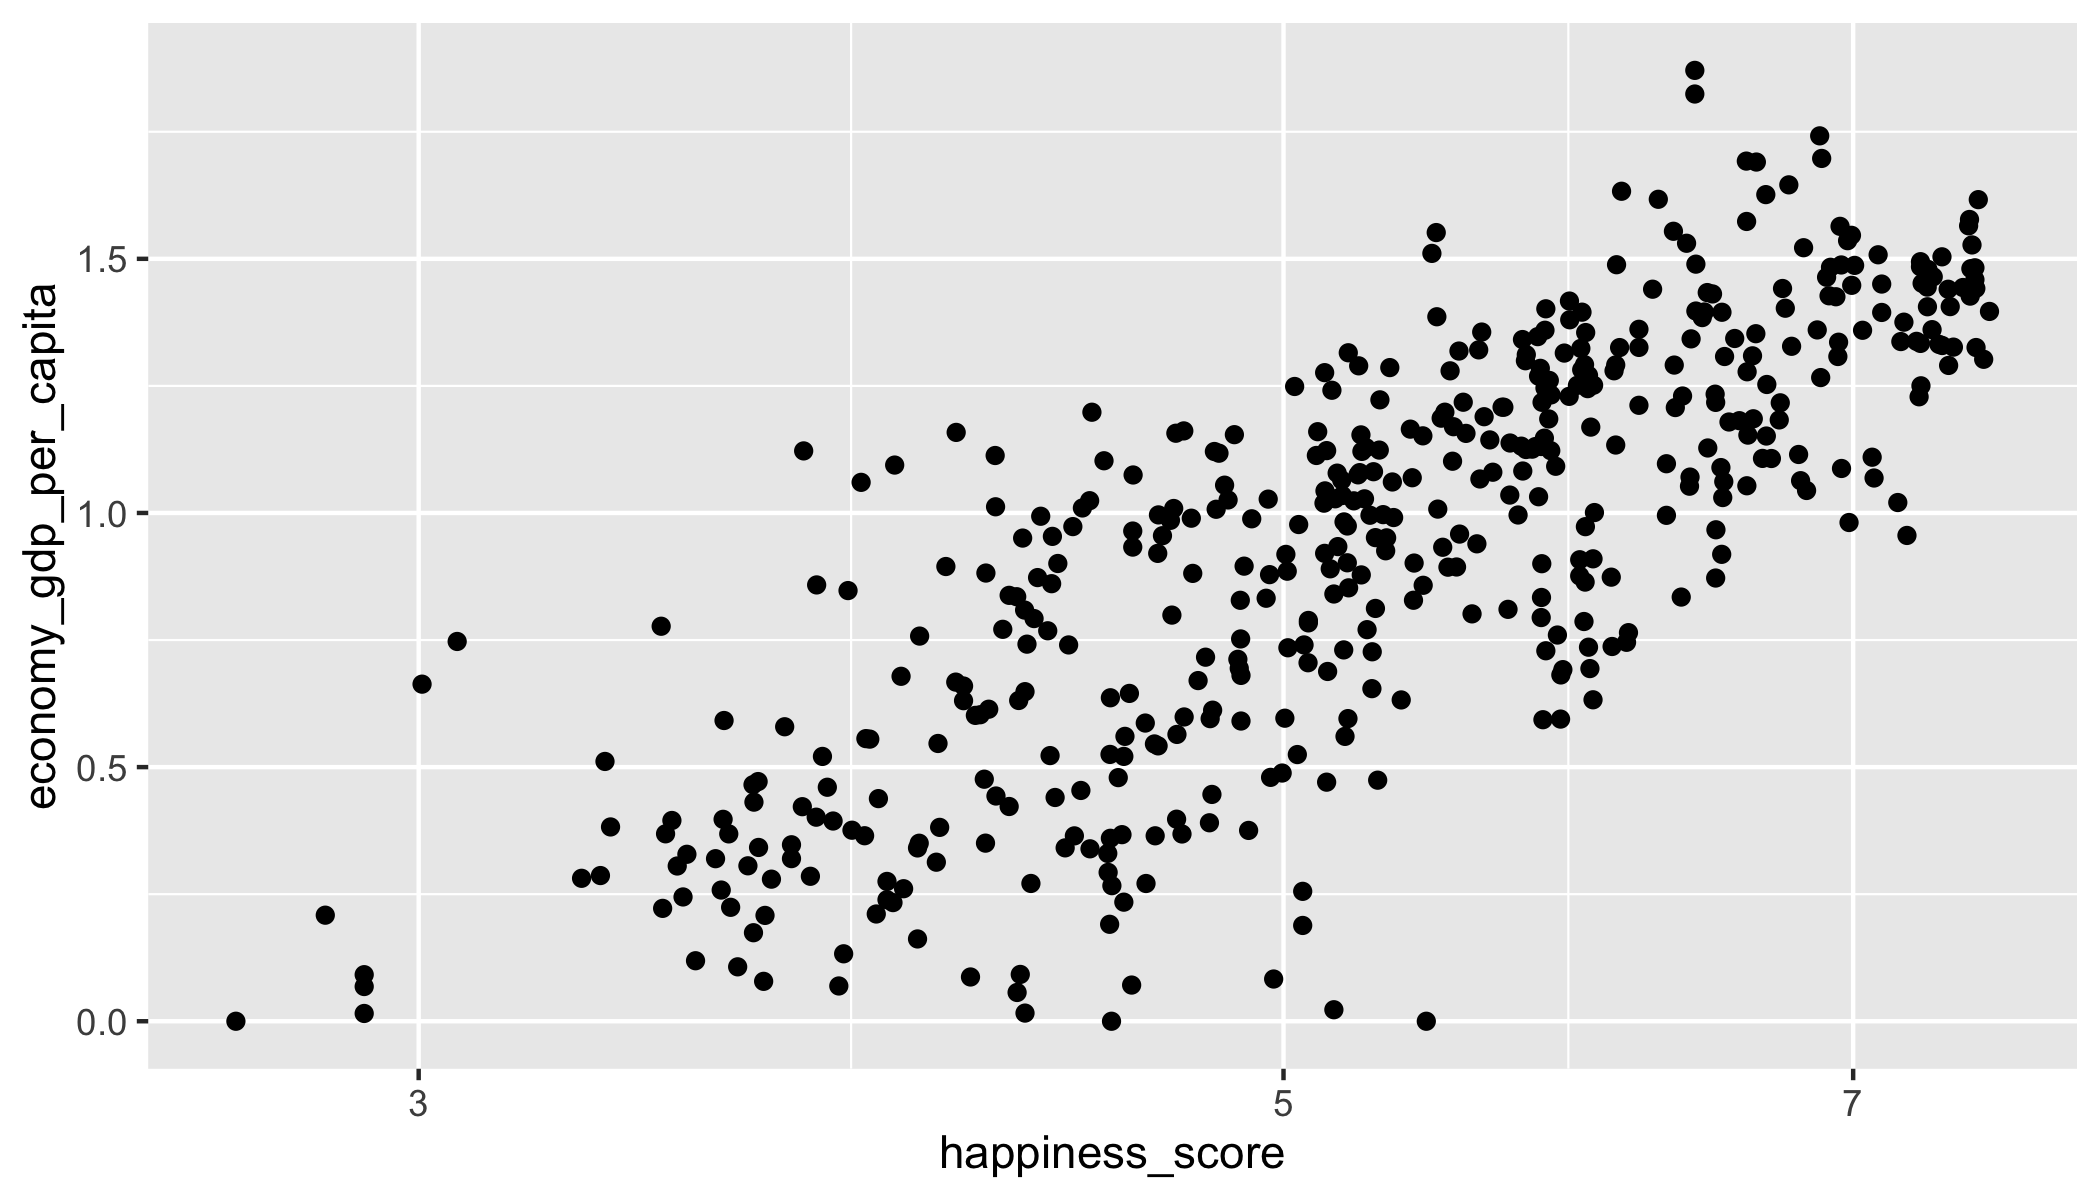
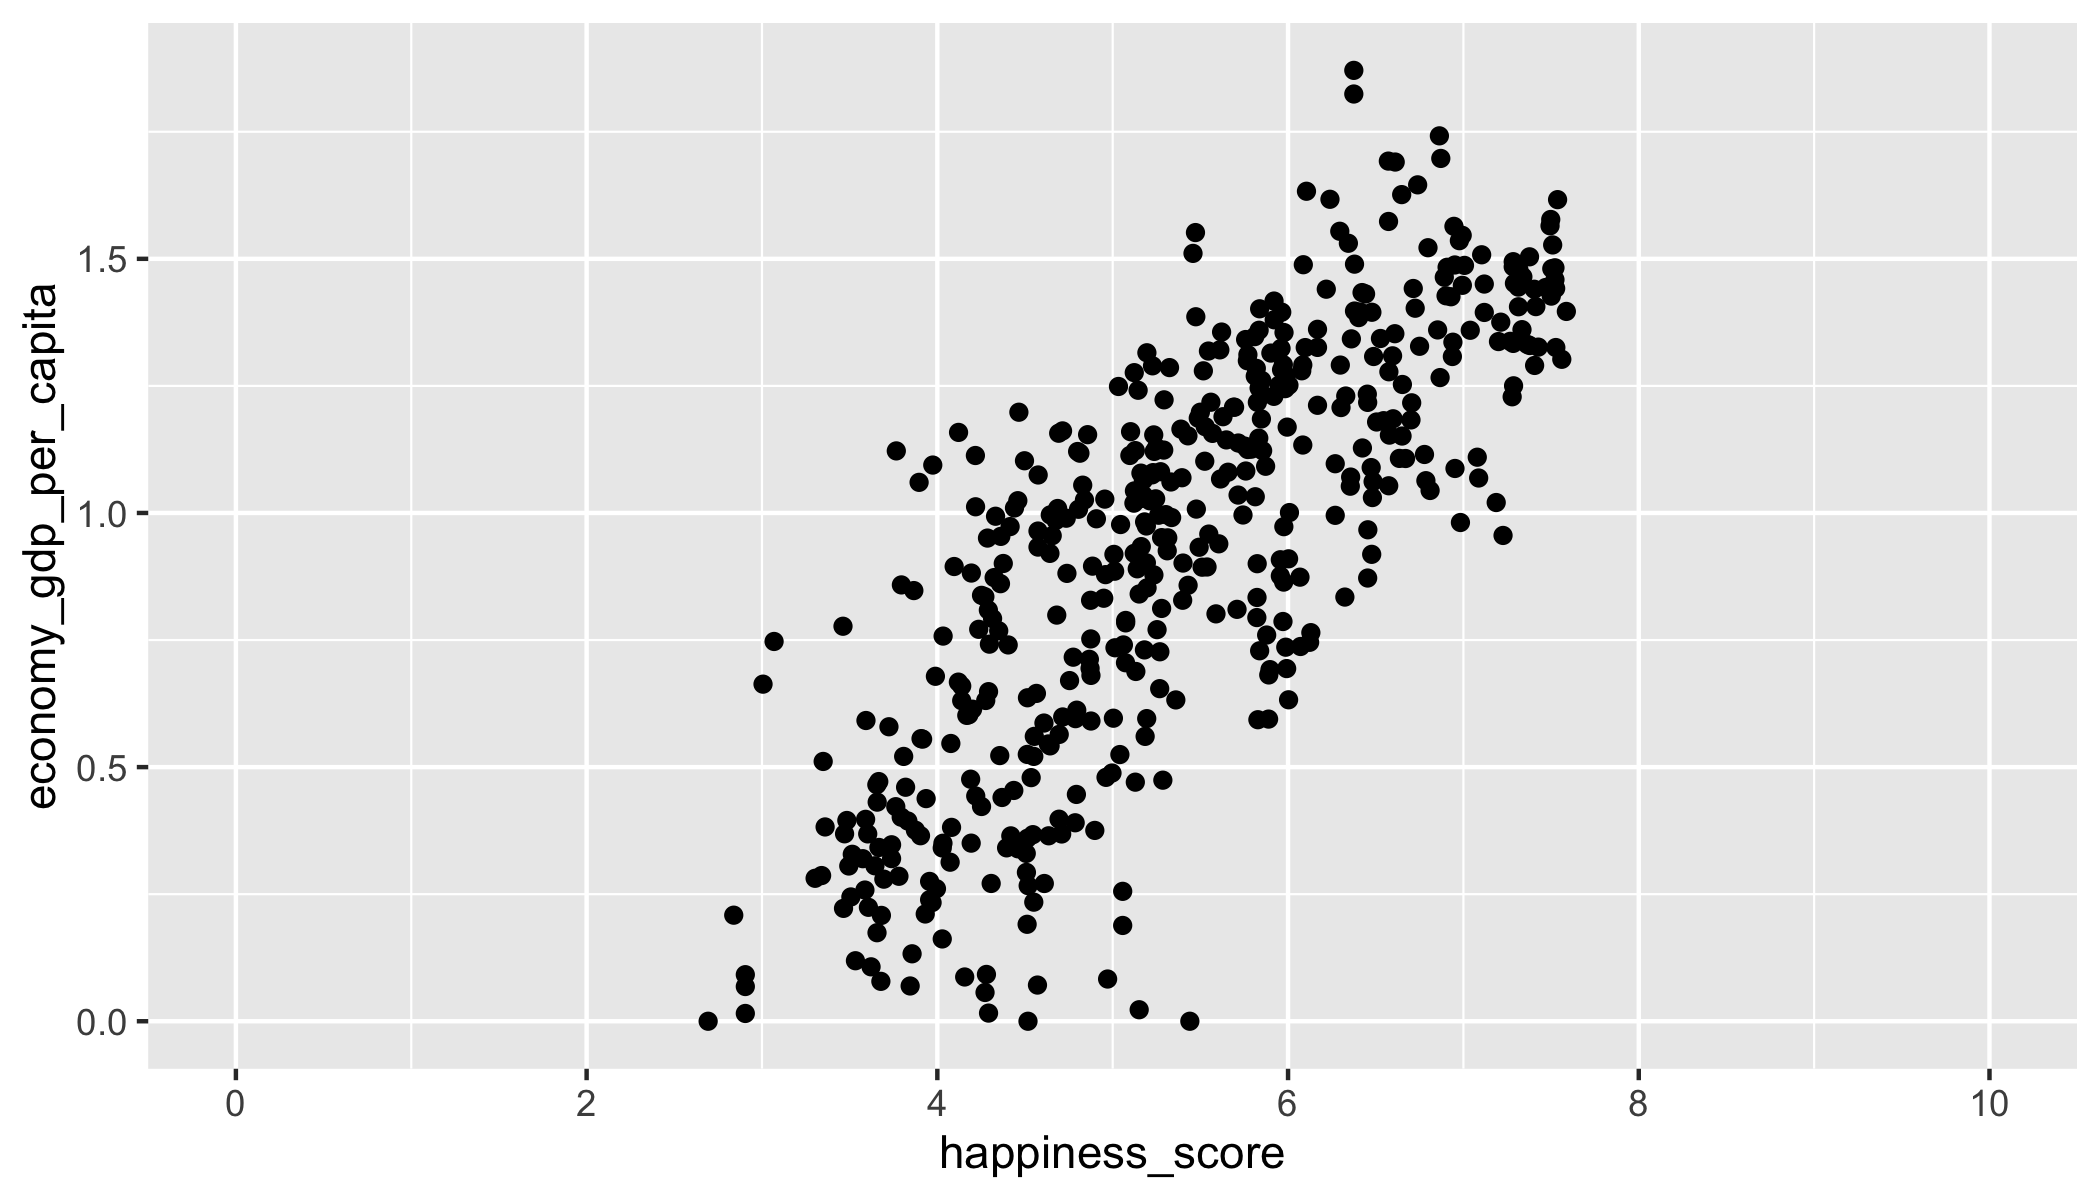
Implemented small changes/corrections to data vis slides

diff --git a/Presentations/04-data-visualization.html b/Presentations/04-data-visualization.html
@@ -185,7 +185,7 @@ First, we’re going to use base plot, i.e., using Base R default libraries. It 
 
 ]
 
-<div class="countdown" id="timer_7fa10abd" data-update-every="1" tabindex="0" style="bottom:0;left:0;font-size:2em;">
+<div class="countdown" id="timer_d192904d" data-update-every="1" tabindex="0" style="bottom:0;left:0;font-size:2em;">
 <div class="countdown-controls"><button class="countdown-bump-down">&minus;</button><button class="countdown-bump-up">&plus;</button></div>
 <code class="countdown-time"><span class="countdown-digits minutes">01</span><span class="countdown-digits colon">:</span><span class="countdown-digits seconds">00</span></code>
 </div>
@@ -365,7 +365,7 @@ Both structures will work but this will make a difference if you want to load mo
 **Exercise 2:** Create a scatter plot with `x = freedom` and `y = economy_gdp_per_capita`.
 ]
 
-<div class="countdown" id="timer_72802581" data-update-every="1" tabindex="0" style="bottom:0;left:0;font-size:2em;">
+<div class="countdown" id="timer_ac5cef18" data-update-every="1" tabindex="0" style="bottom:0;left:0;font-size:2em;">
 <div class="countdown-controls"><button class="countdown-bump-down">&minus;</button><button class="countdown-bump-up">&plus;</button></div>
 <code class="countdown-time"><span class="countdown-digits minutes">01</span><span class="countdown-digits colon">:</span><span class="countdown-digits seconds">00</span></code>
 </div>
@@ -529,7 +529,8 @@ whr_panel %&gt;%
       y = economy_gdp_per_capita,
 *     color = "blue"
     )
-  )
+  ) +
+  geom_point()
 ```
 
 ]
@@ -603,7 +604,7 @@ whr_panel %&gt;%
 ]
 
 
-<div class="countdown" id="timer_f9c23798" data-update-every="1" tabindex="0" style="right:0;bottom:0;font-size:2em;">
+<div class="countdown" id="timer_51ef3998" data-update-every="1" tabindex="0" style="right:0;bottom:0;font-size:2em;">
 <div class="countdown-controls"><button class="countdown-bump-down">&minus;</button><button class="countdown-bump-up">&plus;</button></div>
 <code class="countdown-time"><span class="countdown-digits minutes">01</span><span class="countdown-digits colon">:</span><span class="countdown-digits seconds">00</span></code>
 </div>
@@ -751,7 +752,7 @@ whr_panel %&gt;%
 
 ]
 
-<div class="countdown" id="timer_08827076" data-update-every="1" tabindex="0" style="bottom:0;left:0;font-size:2em;">
+<div class="countdown" id="timer_4581f252" data-update-every="1" tabindex="0" style="bottom:0;left:0;font-size:2em;">
 <div class="countdown-controls"><button class="countdown-bump-down">&minus;</button><button class="countdown-bump-up">&plus;</button></div>
 <code class="countdown-time"><span class="countdown-digits minutes">01</span><span class="countdown-digits colon">:</span><span class="countdown-digits seconds">00</span></code>
 </div>
@@ -803,7 +804,7 @@ Let's imagine now, that we would like to transform a variable before plotting.
 ```r
 whr_panel &lt;- whr_panel %&gt;%
 * mutate(
-*   latam = ifelse(region == "Latin America and Caribbean", TRUE, FALSE)
+*   latam = region == "Latin America and Caribbean"
 * )
 
 whr_panel %&gt;%
@@ -874,10 +875,11 @@ ggplot(data = whr_panel,
        aes(x = happiness_score,
            y = economy_gdp_per_capita)) +
   geom_point() +
-* scale_x_log10()
+* scale_x_continuous(limits = c(0, 10),
+*                    breaks = c(0, 2, 4, 6, 8, 10))
 ```
 
-&lt;img src="04-data-visualization_files/figure-html/unnamed-chunk-32-1.png" width="50%" style="display: block; margin: auto;" /&gt;
+&lt;img src="04-data-visualization_files/figure-html/unnamed-chunk-32-1.png" width="45%" style="display: block; margin: auto;" /&gt;
 
 ]
 
@@ -1153,7 +1155,7 @@ The syntax is `ggsave(OBJECT, filename = FILEPATH, heigth = ..., width = ..., dp
 
 ]
 
-<div class="countdown" id="timer_23606d5d" data-update-every="1" tabindex="0" style="bottom:0;left:0;font-size:2em;">
+<div class="countdown" id="timer_3d58a7c8" data-update-every="1" tabindex="0" style="bottom:0;left:0;font-size:2em;">
 <div class="countdown-controls"><button class="countdown-bump-down">&minus;</button><button class="countdown-bump-up">&plus;</button></div>
 <code class="countdown-time"><span class="countdown-digits minutes">01</span><span class="countdown-digits colon">:</span><span class="countdown-digits seconds">00</span></code>
 </div>
